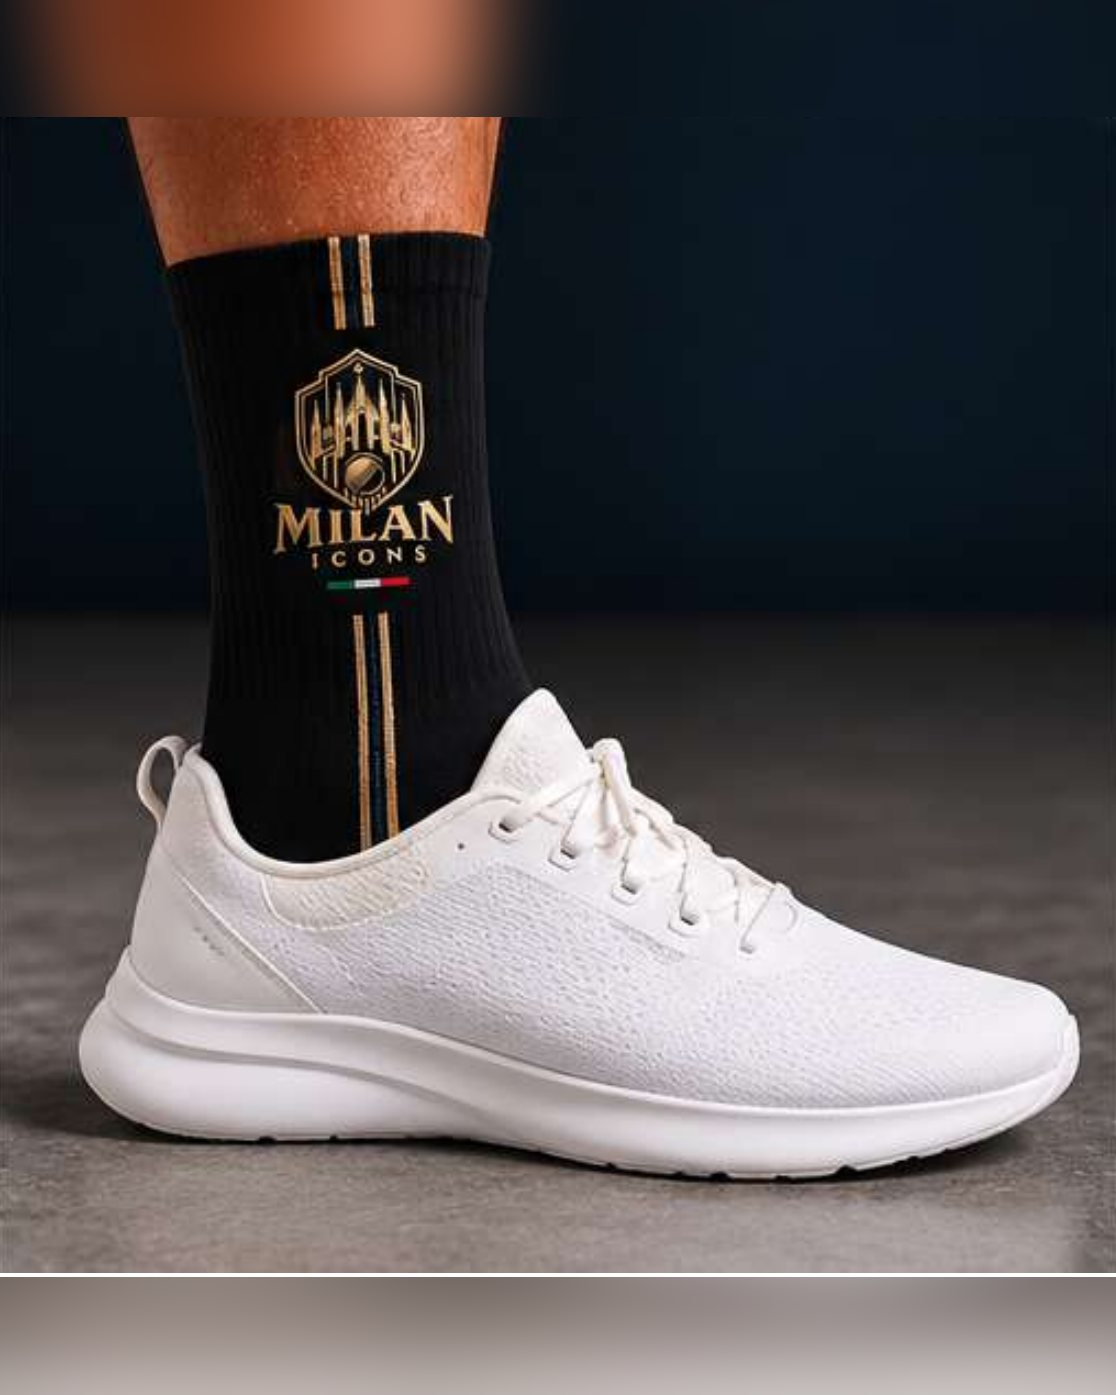
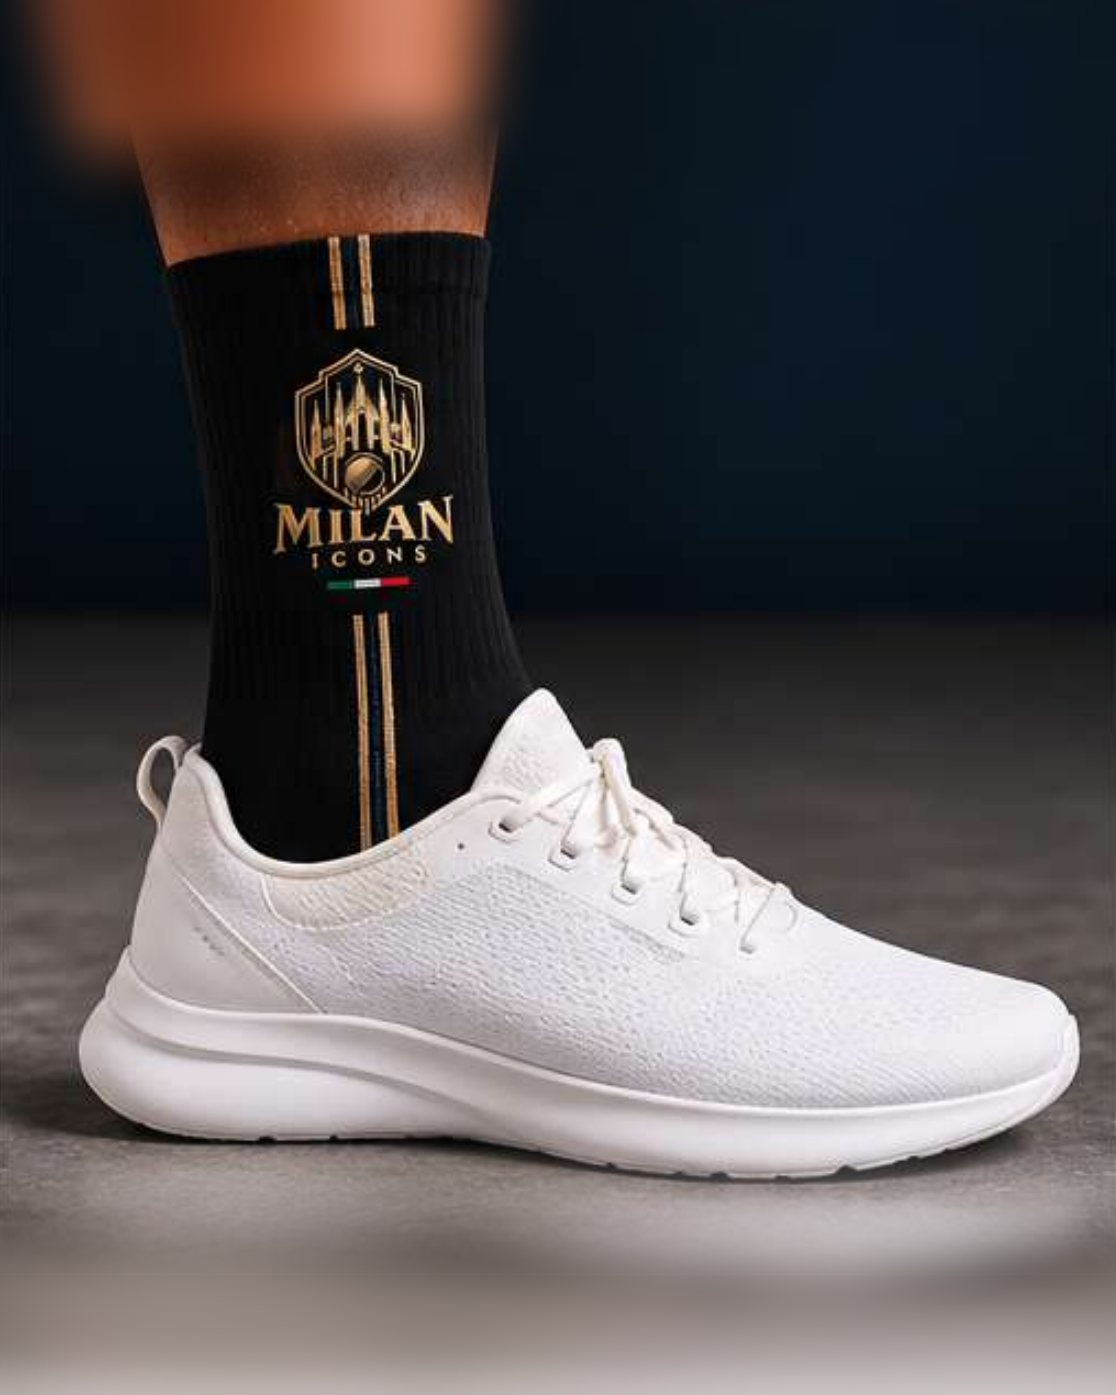
Uncut product photos, hover reveal with a View cursor, and a header that never wraps
- Product card thumbnails are now 4:5 (600x750) instead of WooCommerce's
  square crop, which cut the top and bottom off portrait photos.
- Photo-style product images blend into their blurred fill with soft
  edges; the catalogue's image_version makes the importer replace photos
  on existing products (nothing else on them is touched).
- Card hover: the second photo wipes in from the left and a round View
  cursor follows the pointer (mouse/trackpad only; still for reduced motion).
- The main menu switches to the menu button below 1240px so it never
  wraps into the centred logo.

Claude-Session: https://claude.ai/code/session_018WQaSFxJLM7j5kdNC7BRF8

diff --git a/commerce/storefront/themes/brandhouse/assets/css/base.css b/commerce/storefront/themes/brandhouse/assets/css/base.css
@@ -69,7 +69,7 @@ input:focus, select:focus, textarea:focus { outline: 2px solid var(--ink); outli
 .site-header .bar { display: grid; grid-template-columns: 1fr auto 1fr; align-items: center; height: var(--header-h); max-width: var(--max); margin: 0 auto; padding: 0 var(--gutter); }
 .menu-toggle { display: none; justify-self: start; }
 .nav-primary ul { display: flex; gap: 28px; list-style: none; margin: 0; padding: 0; }
-.nav-primary a { font: 700 11px/1 var(--font-label); letter-spacing: var(--label-tracking); text-transform: uppercase; padding: 8px 0; border-bottom: 1px solid transparent; transition: border-color .2s; }
+.nav-primary a { white-space: nowrap; font: 700 11px/1 var(--font-label); letter-spacing: var(--label-tracking); text-transform: uppercase; padding: 8px 0; border-bottom: 1px solid transparent; transition: border-color .2s; }
 .nav-primary a:hover, .nav-primary .current-menu-item a { border-color: var(--ink); }
 .brand { justify-self: center; }
 .brand .custom-logo { max-height: 40px; width: auto; }
@@ -290,6 +290,10 @@ main.page { padding-top: 40px; padding-bottom: 80px; }
   ul.products { grid-template-columns: repeat(3, minmax(0, 1fr)); }
   .nav-primary ul { gap: 18px; }
 }
+@media (max-width: 1240px) {
+  .menu-toggle { display: inline-grid; }
+  .nav-primary { display: none; }
+}
 @media (max-width: 860px) {
   .pdp-media { display: block; position: relative; margin: 0 calc(var(--gutter) * -1); }
   .pdp-media:not(.is-single) .pdp-hero, .pdp-stack { display: none; }
@@ -323,3 +327,12 @@ main.page { padding-top: 40px; padding-bottom: 80px; }
 .price-soon { color: var(--muted); font-size: .92em; letter-spacing: .02em; }
 .flag { width: 21px; height: 14px; display: block; flex: none; box-shadow: 0 0 0 1px rgba(0,0,0,.08); }
 .market-btn .flag { margin-right: 2px; }
+
+/* Card hover: second photo wipes in from the left; a round "View" cursor follows the pointer. */
+.card-media img.alt { opacity: 1; clip-path: inset(0 100% 0 0); transition: clip-path .7s cubic-bezier(.7, 0, .2, 1), transform .7s var(--ease); }
+.card:hover .card-media img.alt { clip-path: inset(0 0 0 0); }
+.card:hover .card-media img:not(.alt) { transform: scale(1.04); }
+@media (hover: hover) and (pointer: fine) { .card-media { cursor: none; } }
+.cursor-view { position: fixed; left: 0; top: 0; z-index: 90; width: 88px; height: 88px; margin: 0; border-radius: 50%; display: grid; place-items: center; background: var(--ink); color: var(--bg); font: 700 10px/1 var(--font-label); letter-spacing: var(--label-tracking); text-transform: uppercase; pointer-events: none; opacity: 0; scale: .2; transition: opacity .2s, scale .35s cubic-bezier(.2, .9, .3, 1.3); }
+.cursor-view.is-on { opacity: 1; scale: 1; }
+@media (prefers-reduced-motion: reduce) { .card-media img.alt { transition: none; } .cursor-view { transition: none; } }

diff --git a/commerce/storefront/themes/brandhouse/assets/js/theme.js b/commerce/storefront/themes/brandhouse/assets/js/theme.js
@@ -69,6 +69,30 @@
     data.subscribe(render, 'wc/store/cart');
   });
 
+  // Product cards: a round "View" cursor follows the pointer over product photos (mouse/trackpad only).
+  const fine = window.matchMedia('(hover: hover) and (pointer: fine)').matches;
+  const still = window.matchMedia('(prefers-reduced-motion: reduce)').matches;
+  if (fine && document.querySelector('.card-media')) {
+    const dot = document.createElement('div');
+    dot.className = 'cursor-view';
+    dot.setAttribute('aria-hidden', 'true');
+    dot.textContent = (window.brandhouse && window.brandhouse.viewLabel) || 'View';
+    document.body.appendChild(dot);
+    let x = 0, y = 0, cx = 0, cy = 0, raf = 0;
+    const move = () => {
+      cx += (x - cx) * (still ? 1 : 0.22); cy += (y - cy) * (still ? 1 : 0.22);
+      dot.style.transform = `translate3d(${cx}px, ${cy}px, 0) translate(-50%, -50%)`;
+      raf = Math.abs(x - cx) + Math.abs(y - cy) > 0.3 ? requestAnimationFrame(move) : 0;
+    };
+    document.addEventListener('pointermove', (e) => {
+      x = e.clientX; y = e.clientY;
+      if (!dot.classList.contains('is-on')) { cx = x; cy = y; }
+      if (!raf) raf = requestAnimationFrame(move);
+    }, { passive: true });
+    document.addEventListener('pointerover', (e) => dot.classList.toggle('is-on', !!e.target.closest('.card-media')));
+    document.addEventListener('pointerleave', () => dot.classList.remove('is-on'));
+  }
+
   // Search panel.
   const searchBtn = $('[data-search-open]');
   const panel = $('#site-search');

diff --git a/commerce/storefront/docker/import-catalog.php b/commerce/storefront/docker/import-catalog.php
@@ -39,7 +39,26 @@ foreach (glob($root . '/*/products.json') ?: [] as $json) {
         }
     }
     foreach ($data['products'] as $p) {
-        if (wc_get_product_id_by_sku($p['sku'])) {
+        $ver = (int) ($data['image_version'] ?? 1);
+        $existing = wc_get_product_id_by_sku($p['sku']);
+        if ($existing) {
+            // Existing products keep everything the owner edited; only their photos are replaced when the
+            // catalogue's image_version goes up.
+            if ((int) get_post_meta($existing, '_bh_img_ver', true) < $ver) {
+                $prod = wc_get_product($existing);
+                $old = array_filter(array_merge([(int) $prod->get_image_id()], array_map('intval', $prod->get_gallery_image_ids())));
+                $new = array_values(array_filter(array_map(static fn ($i, $img) => $attach(dirname($json) . '/' . $img, $existing, $p['name'] . ' — view ' . ($i + 1)), array_keys($p['images']), $p['images'])));
+                if ($new) {
+                    $prod->set_image_id($new[0]);
+                    $prod->set_gallery_image_ids(array_slice($new, 1));
+                    $prod->save();
+                    foreach ($old as $oid) {
+                        wp_delete_attachment($oid, true);
+                    }
+                    update_post_meta($existing, '_bh_img_ver', $ver);
+                    echo "catalog: new photos for {$p['sku']}\n";
+                }
+            }
             continue;
         }
         $product = $p['sizes'] ? new WC_Product_Variable() : new WC_Product_Simple();
@@ -63,6 +82,7 @@ foreach (glob($root . '/*/products.json') ?: [] as $json) {
             $images[] = $attach(dirname($json) . '/' . $img, $id, $p['name'] . ' — view ' . ($i + 1));
         }
         $images = array_values(array_filter($images));
+        update_post_meta($id, '_bh_img_ver', (int) ($data['image_version'] ?? 1));
         if ($images) {
             $product->set_image_id($images[0]);
             $product->set_gallery_image_ids(array_slice($images, 1));

diff --git a/commerce/storefront/themes/brandhouse/functions.php b/commerce/storefront/themes/brandhouse/functions.php
@@ -25,6 +25,8 @@ add_action('after_setup_theme', static function (): void {
         'single_image_width' => 1000,
         'product_grid' => ['default_columns' => 4, 'default_rows' => 4, 'min_columns' => 2, 'max_columns' => 4],
     ]);
+    // Product cards are 4:5 portrait; WooCommerce's default square crop would cut the top and bottom off.
+    add_filter('woocommerce_get_image_size_thumbnail', static fn (array $s): array => ['width' => 600, 'height' => 750, 'crop' => 1]);
     register_nav_menus([
         'primary' => __('Main menu', 'brandhouse'),
         'footer-shop' => __('Footer: shop', 'brandhouse'),
@@ -37,7 +39,7 @@ add_action('wp_enqueue_scripts', static function (): void {
     $uri = get_template_directory_uri();
     wp_enqueue_style('brandhouse', $uri . '/assets/css/base.css', [], BRANDHOUSE_VERSION);
     wp_enqueue_script('brandhouse', $uri . '/assets/js/theme.js', [], BRANDHOUSE_VERSION, ['strategy' => 'defer', 'in_footer' => true]);
-    wp_localize_script('brandhouse', 'brandhouse', ['sizeAttribute' => 'attribute_pa_size']);
+    wp_localize_script('brandhouse', 'brandhouse', ['sizeAttribute' => 'attribute_pa_size', 'viewLabel' => __('View', 'brandhouse')]);
 });
 
 // Lean front end: no emoji script, no oEmbed discovery on a shop.
